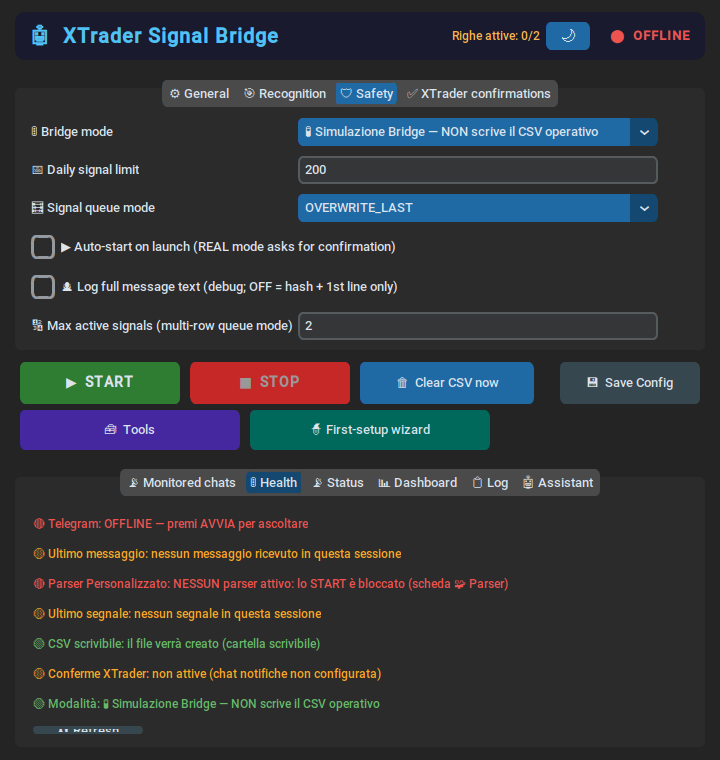
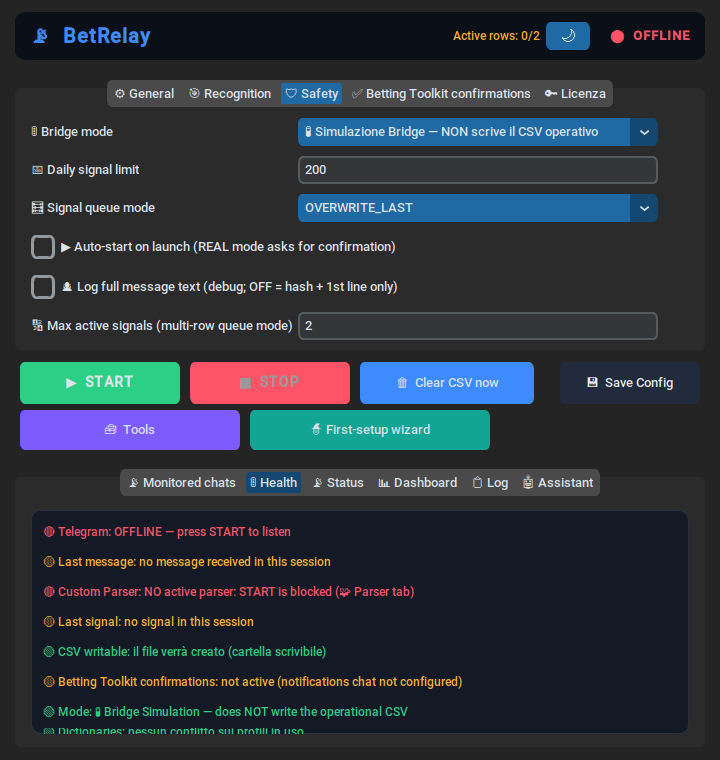
Le nove schermate mostravano il nome vecchio: rigenerate sul main nuovo
Le immagini IT/EN/ES erano precedenti al rebrand #232: finestra «XTrader
Signal Bridge» e percorso vecchio, mentre il testo delle guide diceva già
BetRelay e `C:\BetRelay\segnali.csv`. Testo e figure non concordavano, e un
utente nuovo poteva copiare dalla schermata un percorso diverso da quello
che il programma gli propone.

Rigenerate sul main post-#301, con la licenza di prova attiva, e VERIFICATE
guardandole: i nove hash sono tutti diversi e le tre schermate per lingua
sono davvero Generale, Sicurezza e Salute. Non e' l'«OK» dello script: con
coordinate sbagliate stampa OK lo stesso e produce tre copie identiche.

Coordinate ri-misurate per tutte e tre le lingue (finestra 720x760):

    it  356 93 268 482
    en  311 93 272 482
    es  318 93 279 482

README: l'avviso «da rigenerare» ora sarebbe falso, quindi va via, e al suo
posto c'e' cosa mostrano davvero le immagini nuove.

L'elenco delle lacune di traduzione e' stato RI-VERIFICATO sulle immagini,
non ereditato — ed era in buona parte stantio. Chiuse da allora: «Righe
attive: N/M» (ora Active rows / Filas activas), la riga delle chat
monitorate, e le etichette di tutti e sette i semafori. Restano italiane:

- il VALORE del selettore «Modalità bridge» — ed e' il piu' grave, perche'
  decide se il CSV operativo viene scritto. Nota emersa dalle immagini: la
  stessa modalita', nel semaforo della tab Salute, e' invece tradotta, quindi
  l'app dice la stessa cosa in due lingue nella STESSA schermata;
[…]

diff --git a/docs/assets/screenshots/linux-xvfb/README.md b/docs/assets/screenshots/linux-xvfb/README.md
@@ -5,15 +5,15 @@ Screenshot **reali** della GUI catturati con la pipeline descritta in
 d'esempio** delle guide: token **fittizio**, chat `-1001234567890`, percorso
 `C:\XTrader\segnali.csv`. Nessun dato reale.
 
-> ⚠ **Da rigenerare (#232).** Il default del programma è passato a
-> `C:\BetRelay\segnali.csv`, e la finestra si intitola ora **BetRelay** con header
-> **«📡 BetRelay»**. Queste immagini sono **precedenti** al rebrand: mostrano ancora il
-> percorso e il nome vecchi. Il testo delle guide è già aggiornato, quindi **finché non
-> si rigenerano, testo e immagini non concordano** — un utente nuovo potrebbe copiare
-> dalla schermata un percorso diverso da quello che il programma gli propone.
->
-> La descrizione qui sopra **non** è stata aggiornata di proposito: deve dire cosa le
-> immagini mostrano *davvero*, non cosa vorremmo mostrassero.
+Rigenerate il **7 agosto 2026** sul `main` post-#301: mostrano il nome nuovo — finestra
+**BetRelay**, header **«📡 BetRelay»** — e il percorso di default **`C:\BetRelay\segnali.csv`**.
+Testo delle guide e immagini tornano a concordare.
+
+Sono scattate con una **licenza di prova** attiva
+([`app_con_licenza_di_prova.py`](../../../../tools/screenshots/app_con_licenza_di_prova.py)):
+senza, l'app disegna la fascia rossa «bridge bloccato» e la scheda Licenza non attivata, cioè
+uno stato in cui nessuno userà davvero il programma. La licenza è firmata col seed di **test**
+già presente in `tests/conftest.py`, vive solo in memoria e non finisce nel repository.
 
 ### Perché non sono ancora rigenerate — due ostacoli misurati, non ipotizzati
 
@@ -66,19 +66,25 @@ Le versioni inglese e spagnola **non sono interamente tradotte**. Gli screenshot
 l'app a essere così oggi. Non vanno ritoccati né nascosti — vanno usati sapendolo, e le lacune
 vanno chiuse nel codice.
 
+**Elenco ri-verificato il 7 agosto 2026 guardando le immagini nuove**, non ereditato: da quando
+era stato scritto, parecchie lacune sono state chiuse. Resta italiano:
+
 | Cosa resta in italiano | Dove si vede | Impatto |
 |---|---|---|
-| **`Righe attive: N/M`** | header, **sempre a schermo** | alto: è fra le prime cose che un utente EN/ES legge |
-| **Selettore «Modalità bridge»** — `🧪 Simulazione Bridge — NON scrive il CSV operativo`, `🔬 Collaudo XTrader…`, `⚠ Reale…` | tab Sicurezza / Safety / Seguridad | **il più grave**: è il controllo che decide se il CSV operativo viene scritto |
-| **Tutti e 7 i semafori** della tab Salute | tab Health / Salud | alto: è il pannello diagnostico, quello che si guarda quando qualcosa non va |
-| **`Il bridge ascolterà queste N chat:`** | tab Chat monitorate | medio |
+| **Valore del selettore «Modalità bridge»** — `🧪 Simulazione Bridge — NON scrive il CSV operativo` | tab Safety / Seguridad, riga in cima | **il più grave**: è il controllo che decide se il CSV operativo viene scritto. Nota: la *stessa* modalità, nel semaforo della tab Salute, è invece tradotta — quindi l'app dice la stessa cosa in due lingue diverse nella stessa schermata |
+| **Scheda `Licenza`** | quinta tab, in EN e ES | medio: l'etichetta non è tradotta né in inglese né in spagnolo |
+| **Dettaglio del semaforo CSV** — `il file verrà creato (cartella scrivibile)` | tab Health / Salud | medio: l'etichetta è tradotta, il dettaglio no |
+| **Dettaglio del semaforo Dizionari** — `nessun conflitto su profili in uso` | tab Health / Salud | medio, stesso difetto |
 
-Origine nel codice — nessuna di queste stringhe passa da `i18n`:
+**Già chiuse** (erano in questo elenco e non ci sono più): `Righe attive: N/M` → *Active rows* /
+*Filas activas*; la riga delle chat monitorate → *The bridge will listen to these…* / *El bridge
+escuchará estos…*; le **etichette** dei semafori della tab Salute, ora tradotte tutte e sette.
 
-- `xtrader_bridge/multi_signal.py` → `active_count_text()`
-- `xtrader_bridge/bridge_mode.py` → `LABELS`
-- `xtrader_bridge/health_check.py` → etichette e dettagli degli item
-- `xtrader_bridge/app.py` → riga delle chat monitorate
+Origine nel codice delle lacune rimaste:
+
+- `xtrader_bridge/bridge_mode.py` → `LABELS` (il valore del selettore)
+- `xtrader_bridge/health_check.py` → i **dettagli** di alcuni item (le etichette passano già da `i18n`)
+- l'etichetta della scheda Licenza
 
 Non rientrano fra le stringhe dichiarate «italiane per contratto» nella issue #3 (messaggi di
 dominio, log di debug, dialog di istanza singola): sono **lacune vere**.
@@ -89,9 +95,9 @@ dominio, log di debug, dialog di istanza singola): sono **lacune vere**.
 
 ```bash
 Xvfb :99 -screen 0 1280x1024x24 &
-bash tools/screenshots/shoot.sh it 394 93 260 482
-bash tools/screenshots/shoot.sh en 366 93 273 482
-bash tools/screenshots/shoot.sh es 366 93 278 482
+bash tools/screenshots/shoot.sh it 356 93 268 482
+bash tools/screenshots/shoot.sh en 311 93 272 482
+bash tools/screenshots/shoot.sh es 318 93 279 482
 ```
 
 I quattro numeri sono le coordinate delle due tab da cliccare (prima Sicurezza, poi Salute).
@@ -99,6 +105,18 @@ I quattro numeri sono le coordinate delle due tab da cliccare (prima Sicurezza, 
 layout. Con le coordinate italiane, in spagnolo il click finisce sul pulsante «Asistente de
 primera configuración» e apre il Wizard invece della tab — è successo davvero generando questi
 file, e per questo lo script prende le coordinate come parametri invece di fissarle.
+
+**Le terne qui sopra sono state ri-misurate il 7 agosto 2026** su finestra 720×760. Le
+precedenti (`it 394 93 260 482`) erano stantie per **due** motivi insieme: calibrate quando la
+tabview di configurazione aveva quattro schede — oggi ce n'è una quinta, «Licenza» — e su un
+layout in cui la fascia rossa «bridge bloccato» spostava tutto di ~33 px. Con la licenza di
+prova quella fascia non c'è, quindi esiste **una sola** condizione di layout invece di due.
+
+> ⚠ **Guarda le immagini, non l'esito dello script.** Con coordinate sbagliate i click cadono a
+> vuoto e si ottengono **tre copie della stessa schermata** — misurato: tre file identici da
+> 55 132 byte l'uno — mentre `shoot.sh` stampa comunque `OK`. Dopo ogni rigenerazione va
+> verificato che le tre immagini siano davvero diverse fra loro e che mostrino Generale,
+> Sicurezza e Salute.
 
 Altre trappole già incontrate (tkinter, cryptography, tema chiaro, PYTHONPATH) stanno in
 `tools/screenshots/README.md`.
